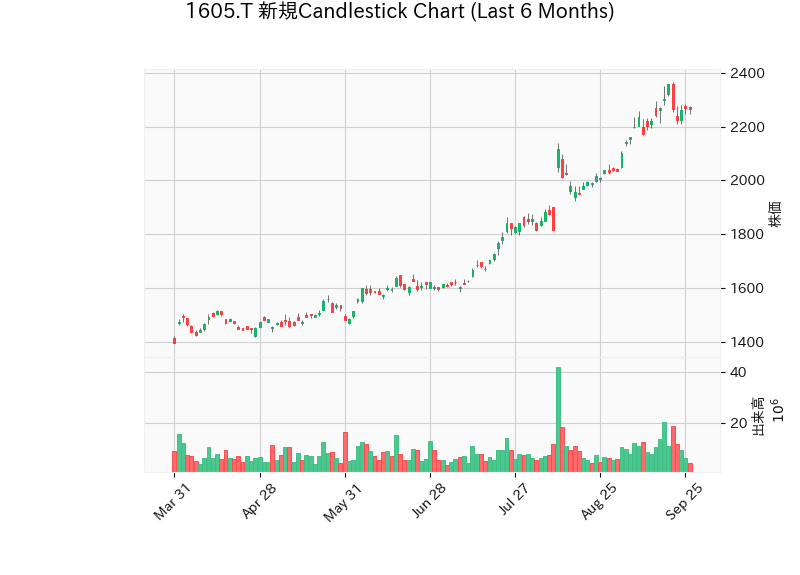
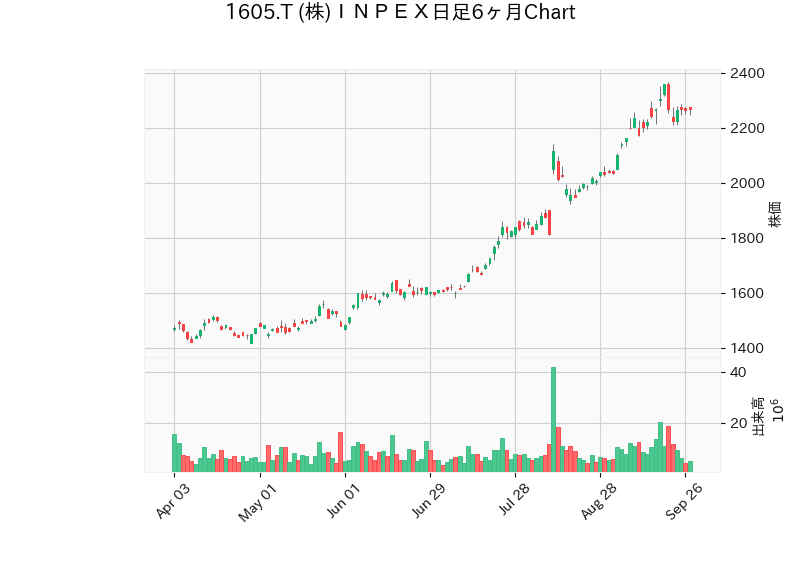
From CodeSpaces

diff --git a/k/index.html b/k/index.html
@@ -3,25 +3,74 @@
 <title>GetInfoooooo!</title>
 </head>
 <body>
-処理日時: 2023/09/27 07:12
+処理日時: 2023/09/28 06:42
 <p>※配当利回りの数字は不正確の模様。確認中。</p>
+<p>※日経平均、主要ETF、その他指数のチャートはいずれ対応予定。</p>
+<p>　Nasdaq100、SP500、DOW、日経先物、TOPIX、ドル円など</p>
 
-<p>1518：Mitsui Matsushima Holdings Co., Ltd. （Energy）</p>
-<p>利回：2.78%   権確：2023/09/28</p>
-<p>前日終値：2872.0</p>
-<img src='img/1518.T_candlestick_chart.png'>
-<p>1605：Inpex Corporation （Energy）</p>
-<p>利回：3.26%   権確：2023/12/28</p>
-<p>前日終値：2264.0</p>
-<img src='img/1605.T_candlestick_chart.png'>
-<p>1419：Tama Home Co., Ltd. （Consumer Cyclical）</p>
-<p>利回：10.00%   権確：2024/05/30</p>
-<p>前日終値：3635.0</p>
+────────────────────────────<p>1301：(株)極洋 （水産・農林業）</p>
+<p>利回：2.26%  権確：2024/03/28  前日終値：4020.0 円</p>
+<img src='img/1301.T_candlestick_chart.png'>
+────────────────────────────<p>1414：ショーボンドホールディングス(株) （建設業）</p>
+<p>利回：2.46%  権確：2023/12/28  前日終値：5897.0 円</p>
+<img src='img/1414.T_candlestick_chart.png'>
+────────────────────────────<p>1419：タマホーム(株) （建設業）</p>
+<p>利回：10.18%  権確：2024/05/30  前日終値：3675.0 円</p>
 <img src='img/1419.T_candlestick_chart.png'>
-<p>1719：Hazama Ando Corporation （Industrials）</p>
-<p>利回：4.92%   権確：2023/09/28</p>
-<p>前日終値：1202.0</p>
+────────────────────────────<p>1420：サンヨーホームズ(株) （建設業）</p>
+<p>利回：6.88%  権確：2024/03/28  前日終値：730.0 円</p>
+<img src='img/1420.T_candlestick_chart.png'>
+────────────────────────────<p>1518：三井松島ホールディングス(株) （鉱業）</p>
+<p>利回：2.79%  権確：2023/09/28  前日終値：2839.0 円</p>
+<img src='img/1518.T_candlestick_chart.png'>
+────────────────────────────<p>1605：(株)ＩＮＰＥＸ （鉱業）</p>
+<p>利回：3.27%  権確：2023/12/28  前日終値：2267.0 円</p>
+<img src='img/1605.T_candlestick_chart.png'>
+────────────────────────────<p>1663：Ｋ＆Ｏエナジーグループ(株) （鉱業）</p>
+<p>利回：1.35%  権確：2023/12/28  前日終値：2528.0 円</p>
+<img src='img/1663.T_candlestick_chart.png'>
+────────────────────────────<p>1719：安藤ハザマ （建設業）</p>
+<p>利回：4.99%  権確：2023/09/28  前日終値：1195.0 円</p>
 <img src='img/1719.T_candlestick_chart.png'>
+────────────────────────────<p>1766：東建コーポレーション(株) （建設業）</p>
+<p>利回：3.16%  権確：2024/04/26  前日終値：8010.0 円</p>
+<img src='img/1766.T_candlestick_chart.png'>
+────────────────────────────<p>1801：大成建設(株) （建設業）</p>
+<p>利回：2.45%  権確：2023/09/28  前日終値：5289.0 円</p>
+<img src='img/1801.T_candlestick_chart.png'>
+────────────────────────────<p>1802：(株)大林組 （建設業）</p>
+<p>利回：3.10%  権確：2023/09/28  前日終値：1339.5 円</p>
+<img src='img/1802.T_candlestick_chart.png'>
+────────────────────────────<p>1820：西松建設(株) （建設業）</p>
+<p>利回：4.88%  権確：2023/09/28  前日終値：3760.0 円</p>
+<img src='img/1820.T_candlestick_chart.png'>
+────────────────────────────<p>1911：住友林業(株) （建設業）</p>
+<p>利回：3.31%  権確：2023/12/28  前日終値：3898.0 円</p>
+<img src='img/1911.T_candlestick_chart.png'>
+────────────────────────────<p>1925：大和ハウス工業(株) （建設業）</p>
+<p>利回：3.49%  権確：2023/09/28  前日終値：4093.0 円</p>
+<img src='img/1925.T_candlestick_chart.png'>
+────────────────────────────<p>1928：積水ハウス(株) （建設業）</p>
+<p>利回：3.90%  権確：2024/01/30  前日終値：3029.0 円</p>
+<img src='img/1928.T_candlestick_chart.png'>
+────────────────────────────<p>1934：(株)ユアテック （建設業）</p>
+<p>利回：2.87%  権確：2023/09/28  前日終値：971.0 円</p>
+<img src='img/1934.T_candlestick_chart.png'>
+────────────────────────────<p>1938：日本リーテック(株) （建設業）</p>
+<p>利回：2.18%  権確：2024/03/28  前日終値：1374.0 円</p>
+<img src='img/1938.T_candlestick_chart.png'>
+────────────────────────────<p>1941：(株)中電工 （建設業）</p>
+<p>利回：4.16%  権確：2023/09/28  前日終値：2460.0 円</p>
+<img src='img/1941.T_candlestick_chart.png'>
+────────────────────────────<p>1944：(株)きんでん （建設業）</p>
+<p>利回：1.85%  権確：2023/09/28  前日終値：2165.0 円</p>
+<img src='img/1944.T_candlestick_chart.png'>
+────────────────────────────<p>1951：エクシオグループ(株) （建設業）</p>
+<p>利回：3.84%  権確：2023/09/28  前日終値：3095.0 円</p>
+<img src='img/1951.T_candlestick_chart.png'>
+────────────────────────────<p>1952：新日本空調(株) （建設業）</p>
+<p>利回：4.08%  権確：2023/09/28  前日終値：2444.0 円</p>
+<img src='img/1952.T_candlestick_chart.png'>
 
 
 </html>

diff --git a/k/13PyGetInfo.py b/k/13PyGetInfo.py
@@ -11,8 +11,9 @@ import sys
 import os
 import time
 import japanize_matplotlib  
-#import matplotlib.pyplot as plt
-#plt.rcParams["font.family"] = "IPAexGothic"
+import requests
+from bs4 import BeautifulSoup
+import re
 
 print("処理開始")
 
@@ -24,12 +25,42 @@ DtNow = datetime.datetime.now()
 
 # print( '今の時間: ' + DtNow.strftime('%Y/%m/%d %H:%M') )
 HtmlBody += '処理日時: ' + DtNow.strftime ( '%Y/%m/%d %H:%M' ) + "\n"
-HtmlBody += "<p>※配当利回りの数字は不正確の模様。確認中。</p>\n\n"
+HtmlBody += "<p>※配当利回りの数字は不正確の模様。確認中。</p>\n"
+HtmlBody += "<p>※日経平均、主要ETF、その他指数のチャートはいずれ対応予定。</p>\n"
+HtmlBody += "<p>　Nasdaq100、SP500、DOW、日経先物、TOPIX、ドル円など</p>\n\n"
+
+
 print(HtmlBody)
 
 
 # 対象銘柄のリスト
-symbols = ['1518.T', '1605.T', '1419.T', '1719.T']
+#symbols = ['1518.T', '1605.T', '1419.T', '1719.T']
+symbols = ['1301.T', '1414.T', '1419.T', '1420.T', '1518.T', '1605.T', '1663.T', '1719.T', '1766.T', '1801.T', '1802.T', '1820.T', '1911.T', '1925.T', '1928.T', '1934.T', '1938.T', '1941.T', '1944.T', '1951.T', '1952.T']
+
+#'1301.T', 
+#'1414.T', 
+#'1419.T', 
+#'1420.T', 
+#'1518.T', 
+#'1605.T', 
+#'1663.T', 
+#'1719.T', 
+#'1766.T', 
+#'1801.T', 
+#'1802.T', 
+#'1820.T', 
+#'1911.T', 
+#'1925.T', 
+#'1928.T', 
+#'1934.T', 
+#'1938.T', 
+#'1941.T', 
+#'1944.T', 
+#'1951.T', 
+#'1952.T', 
+
+
+
 
 # 銘柄情報を格納するリスト
 company_info = []
@@ -39,56 +70,117 @@ ohlc_data = {}
 
 cs  = mpf.make_mpf_style(base_mpf_style='yahoo', rc={"font.family":'IPAexGothic'})
 
+
+# 取得先URL生成のためのテンプレURL
+BaseYhURL = "https://finance.yahoo.co.jp/quote/"
+
 print("<info> 繰り返し処理開始。")
 for symbol in symbols:
-  print(f"コード：{symbol}")
-
+  print(f"<info> コード：{symbol}")
+  
+  # 変数の初期化
+  YhURL=None
+  r = None
+  HTMLStr = None
+  soup = None
+  YhTitleStr = None
+  StockName = None
+  IdsArea = None
+  IdsStr = None
+  
+  
+  # ------------------------------------------------
+  # 日本語情報を取得する処理
+  YhURL=BaseYhURL+symbol
+  
+  # 負荷軽減のための待機
+  time.sleep(1)
+  
+  # URLに接続して情報取得
+  r = requests.get(YhURL)
+  
+  # ソースをHTMLとして解釈して取得
+  HTMLStr = r.text
+  soup = BeautifulSoup(HTMLStr, 'html.parser')
+  
+  # タイトルから企業名称を取得する
+  YhTitleStr = soup.title.string
+  m = None
+  m = re.findall('(.+?)【\d+',YhTitleStr)
+  
+  # 文字列を取得できなかった場合の別の対処
+  if len(m) == 0:
+    print("<info> タイトル取得時に通常とは異なるパターンを検知：1")
+    m = re.findall('(.+?)：.*',YhTitleStr)
+  
+  StockName = m[0]
+  
+  # 業種
+  IdsArea = soup.find(id="industry")
+  m = None
+  if IdsArea == None:
+    IdsStr = "-"
+  else:
+    m = re.findall('^\d+(.*)$',IdsArea.text)
+    IdsStr = m[0]
+  
+  print(f"<info> 企業名称Jp：{StockName} [{IdsStr}]")
+  
+  # ------------------------------------------------
+  
+  
   company = yf.Ticker(symbol)
   info = company.info
-
-
+  
+  
   company_code = symbol.split('.')[0]  # コード
   company_name = info.get('longName', 'N/A')   # 社名の取得
   sector = info.get('sector', 'N/A')  # セクター、業種
-
+  
   ex_dividend_date = info.get('exDividendDate', 'N/A')  # 次回の権利確定日
   print(f"{ex_dividend_date}")
-
+  
   ex_dividend_date_format = datetime.datetime.fromtimestamp(ex_dividend_date)
   ex_dividend_date_str = ex_dividend_date_format.strftime('%Y/%m/%d')
-
+  
   previous_close = info.get('regularMarketPreviousClose', 'N/A')  # 前日終値
   dividend_yield = info.get('dividendYield', 'N/A')  # 配当利回り
   company_info.append([company_code, company_name, sector, ex_dividend_date, previous_close, dividend_yield])
-
-
-  HtmlBody += f"<p>{company_code}：{company_name} （{sector}）</p>\n"
-  HtmlBody += f"<p>利回：{dividend_yield:.2%}   権確：{ex_dividend_date_str}</p>\n"
-  HtmlBody += f"<p>前日終値：{previous_close}</p>\n"
+  
+  
+  # 各銘柄の情報をHTMLファイルへ書き込み。
+  HtmlBody += f"────────────────────────────"
+#  HtmlBody += f"<p>{company_code}：{company_name} （{sector}）</p>\n"
+  HtmlBody += f"<p>{company_code}：{StockName} （{IdsStr}）</p>\n"
+  HtmlBody += f"<p>利回：{dividend_yield:.2%}  権確：{ex_dividend_date_str}  前日終値：{previous_close} 円</p>\n"
+#  HtmlBody += f"<p>前日終値：{previous_close}</p>\n"
   HtmlBody += f"<img src='img/{company_code}.T_candlestick_chart.png'>\n"
-
-
+  
+  
   # 直近半年の4本値および売買高データを取得
   end_date = datetime.date.today()
   start_date = end_date - datetime.timedelta(days=180)  # 直近半年
   data = yf.download(symbol, start=start_date, end=end_date)
   ohlc_data[symbol] = data
-
+  
   print("<info>追加部分：チャート作成処理")
-
-
+  
+  
   # ローソク足チャートの画像を作成して保存・表示
-  for symbol, data in ohlc_data.items():
-    mpf.plot(data, type="candle",title=f'{symbol} 新規Candlestick Chart (Last 6 Months)',ylabel="株価", ylabel_lower="出来高", volume=True,
-             savefig=f'k/img/{symbol}_candlestick_chart.png', style=cs)
-    chart_image = f'k/img/{symbol}_candlestick_chart.png'
-    display(HTML(f'<img src="{chart_image}">'))
-
+#  for symbol, data in ohlc_data.items():
+  print(f"\n【デバッグエリア】変数「StockName」→{StockName}")
+  time.sleep(1)
+  mpf.plot(data, type="candle",title=f'{symbol} {StockName}日足6ヶ月Chart',ylabel="株価", ylabel_lower="出来高", volume=True,
+           savefig=f'k/img/{symbol}_candlestick_chart.png', style=cs)
+  chart_image = f'k/img/{symbol}_candlestick_chart.png'
+  display(HTML(f'<img src="{chart_image}">'))
+  
   print('ローソク足チャート画像が生成され、表示されました。')
-
+  
   # 負荷軽減のための待機
   time.sleep(1)
 
+# 繰り返しここまで
 
 
 
